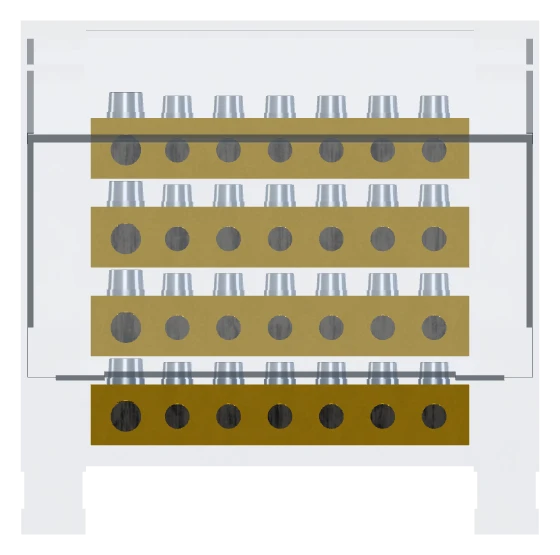
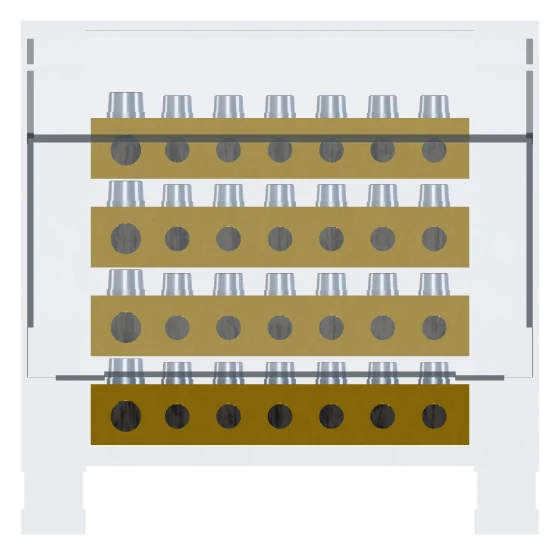
fix(3d): barramento em escada com ganchos DIN atrás, sem pés a sair por baixo
Os «pés» de cavalete (frente e trás) ficavam na base, como se o aparelho
assentasse numa mesa, e liam-se como orelhas no sítio errado. No quadro a
calha TS35 passa atrás, a meia altura: a lateral passa a ter base maciça e os
ganchos DIN (fixo em cima, trinco em baixo, rasgo de 35 mm) ficam na face
traseira, centrados na calha. Capa da biblioteca regenerada.

diff --git a/src/three/busbarParts.ts b/src/three/busbarParts.ts
@@ -919,16 +919,15 @@ export function buildSteppedBusbar(
   // --- Suportes laterais escalonados (esquerdo e direito) com pés de calha DIN (foto 3) ---
   for (const sign of [-1, 1] as const) {
     const cx = sign * (W / 2 - sideW / 2)
-    // Pé frontal e pé traseiro tipo cavalete DIN (característicos da foto 3)
+    // Base maciça da lateral até ao 1.º degrau. Antes havia aqui dois «pés» de cavalete (frente e
+    // trás) a sair por baixo, como se o aparelho assentasse numa mesa: no quadro a calha TS35 passa
+    // ATRÁS do aparelho, a meia altura, e os pés liam-se como orelhas no sítio errado.
     const footW = sideW - 1.2
-    bodyParts.push(boxMm(unit, footW, 13.5, 11.0, cx, y0 + 6.75, z0 + D - 6.5))
-    bodyParts.push(boxMm(unit, footW + 1.0, 4.4, 14.5, cx, y0 + 2.2, z0 + D - 7.2))
-    bodyParts.push(boxMm(unit, footW, 13.5, 11.5, cx, y0 + 6.75, z0 + 6.8))
-    bodyParts.push(boxMm(unit, footW + 1.0, 4.4, 14.5, cx, y0 + 2.2, z0 + 7.2))
-    // Travessa lateral unindo os dois pés acima do rasgo da calha TS35
-    bodyParts.push(boxMm(unit, sideW, 9.5, D - 2.0, cx, y0 + 15.5, 0))
-    // Patilha de travamento DIN no rasgo inferior
-    darkParts.push(boxMm(unit, footW * 0.62, 2.6, D * 0.42, cx, y0 + 9.8, 0))
+    bodyParts.push(boxMm(unit, sideW, 18.0, D - 2.0, cx, y0 + 9.0, 0))
+    // Ganchos DIN na face traseira, centrados na calha (eixo do aparelho): gancho fixo em cima,
+    // trinco de mola em baixo — o rasgo de 35 mm entre eles abraça a calha.
+    darkParts.push(boxMm(unit, footW, 3.0, 4.2, cx, 17.5 + 1.5, z0 + 2.1))
+    darkParts.push(boxMm(unit, footW * 0.8, 4.4, 4.2, cx, -17.5 - 2.2, z0 + 2.1))
 
     // Degraus laterais moldados em escada que abraçam cada barra e sustentam a tampa
     for (let b = 0; b < nBars; b++) {
